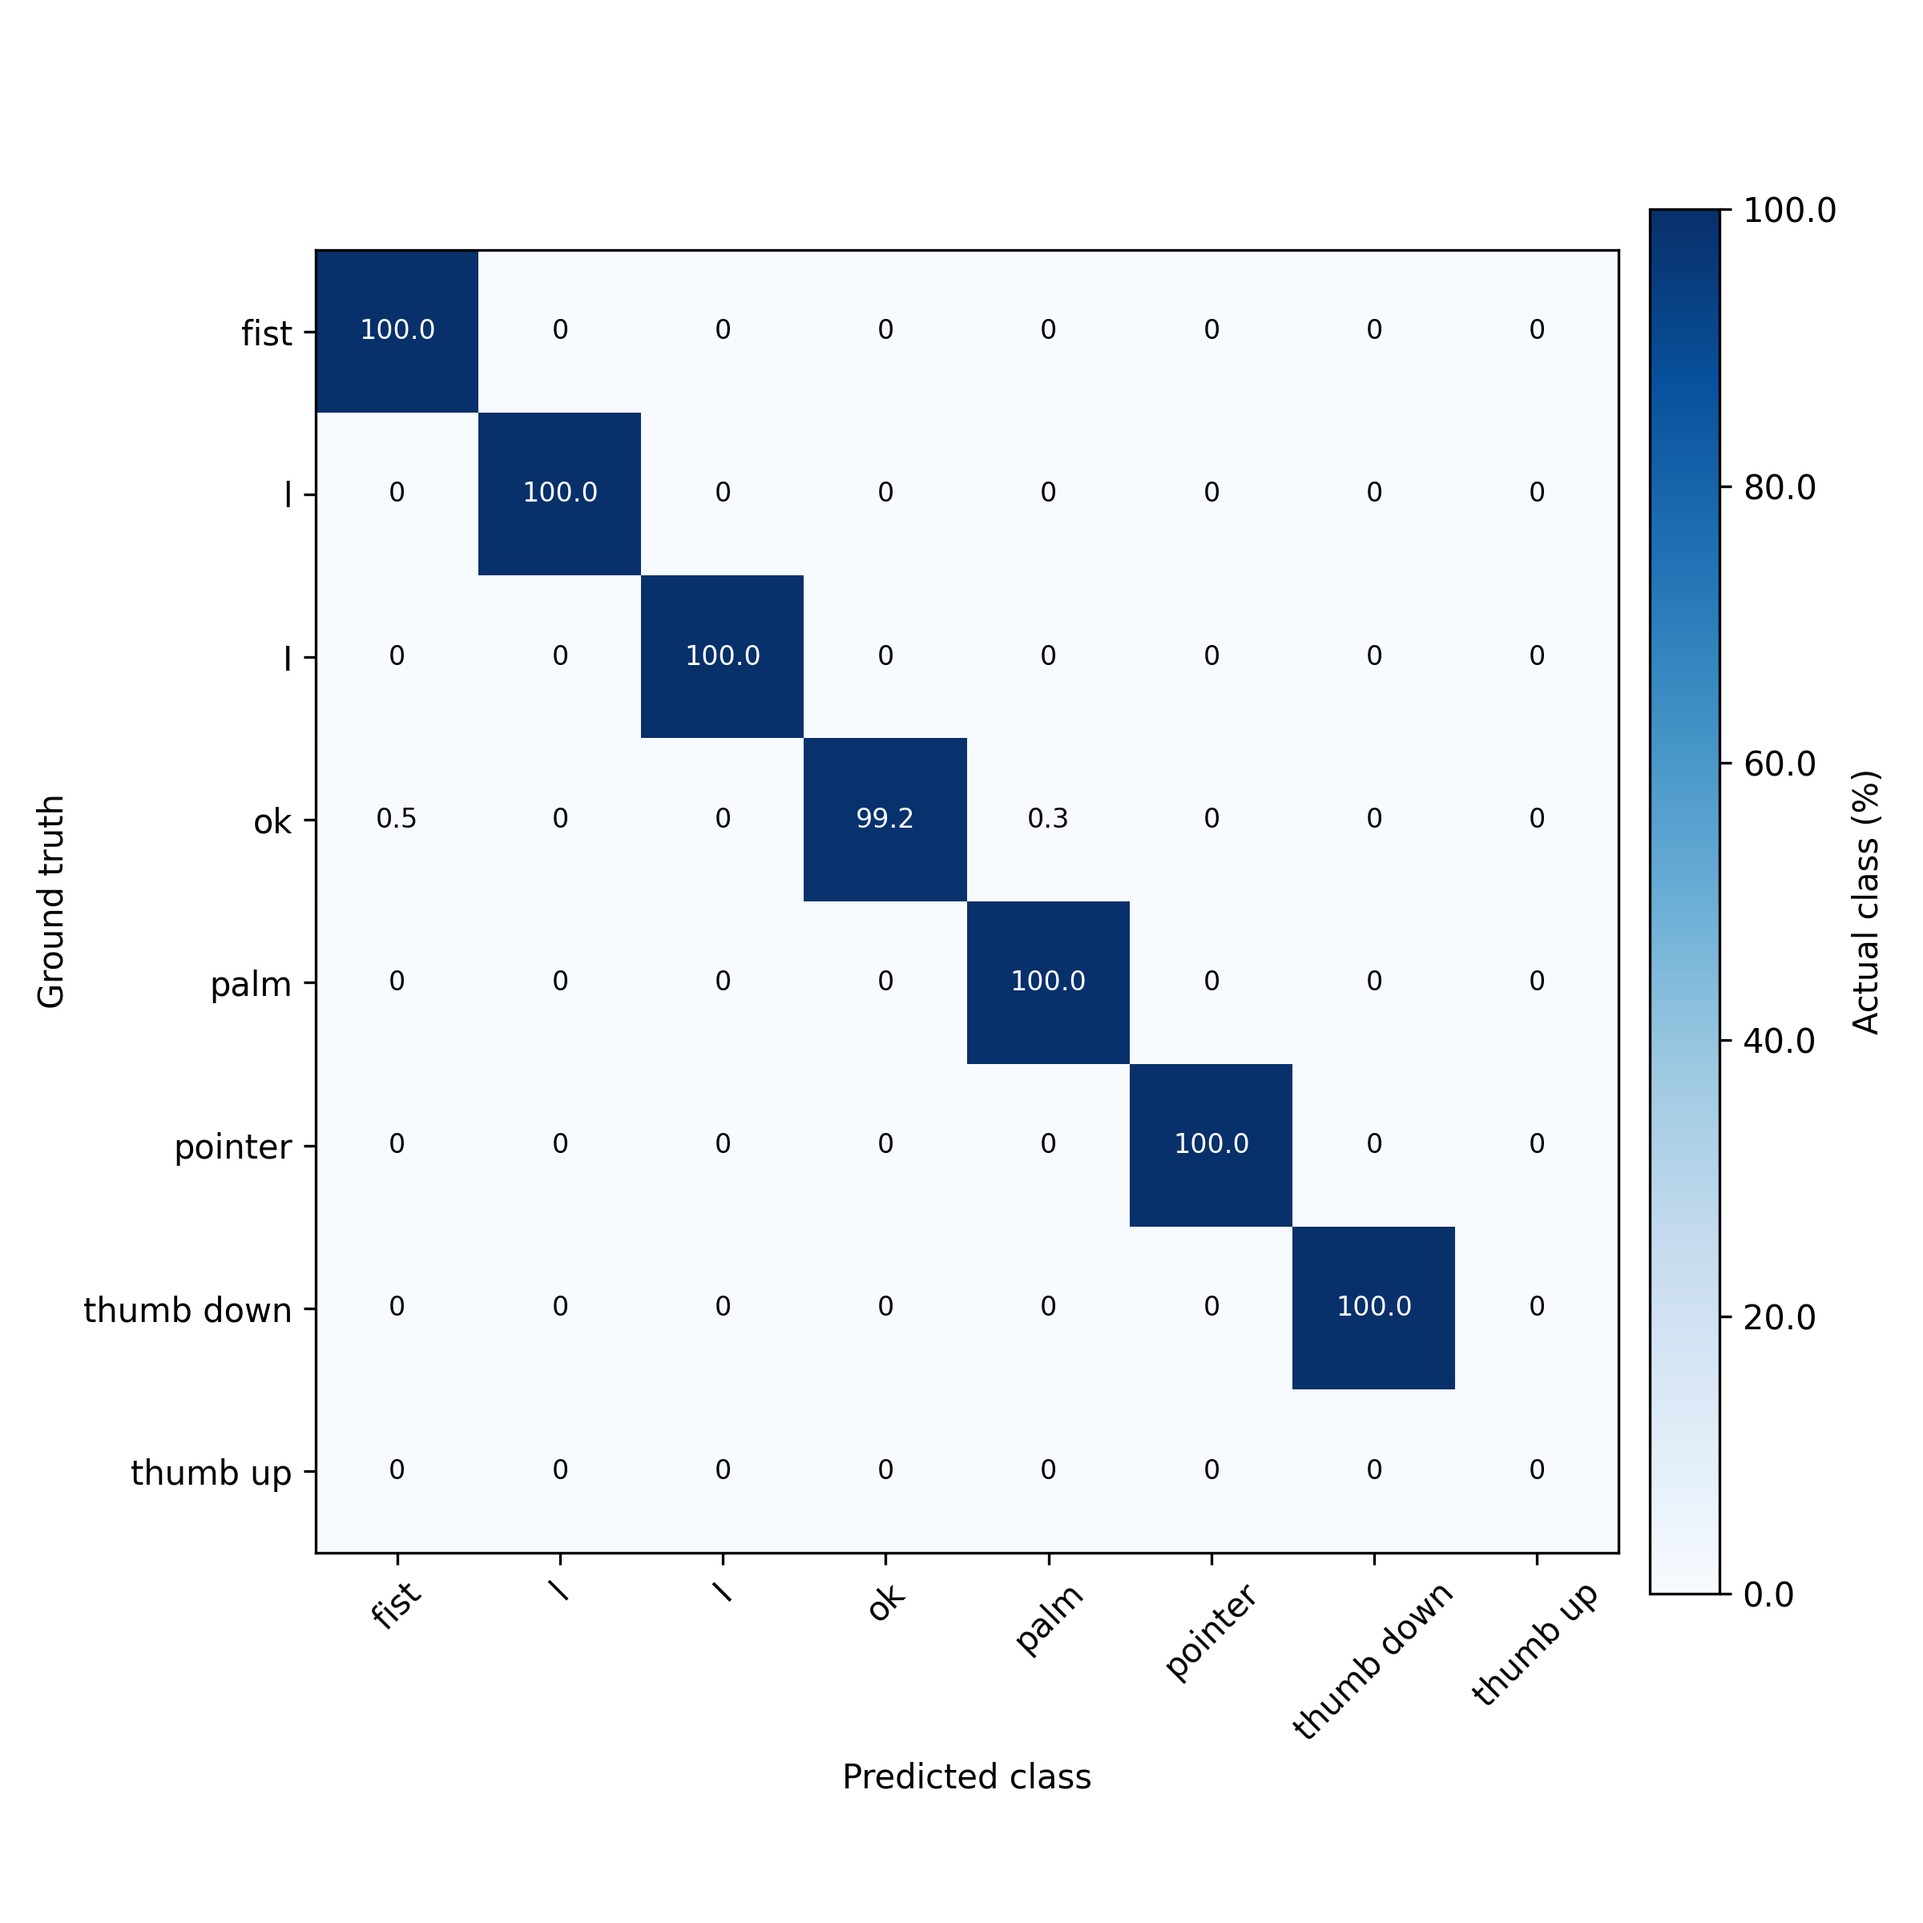
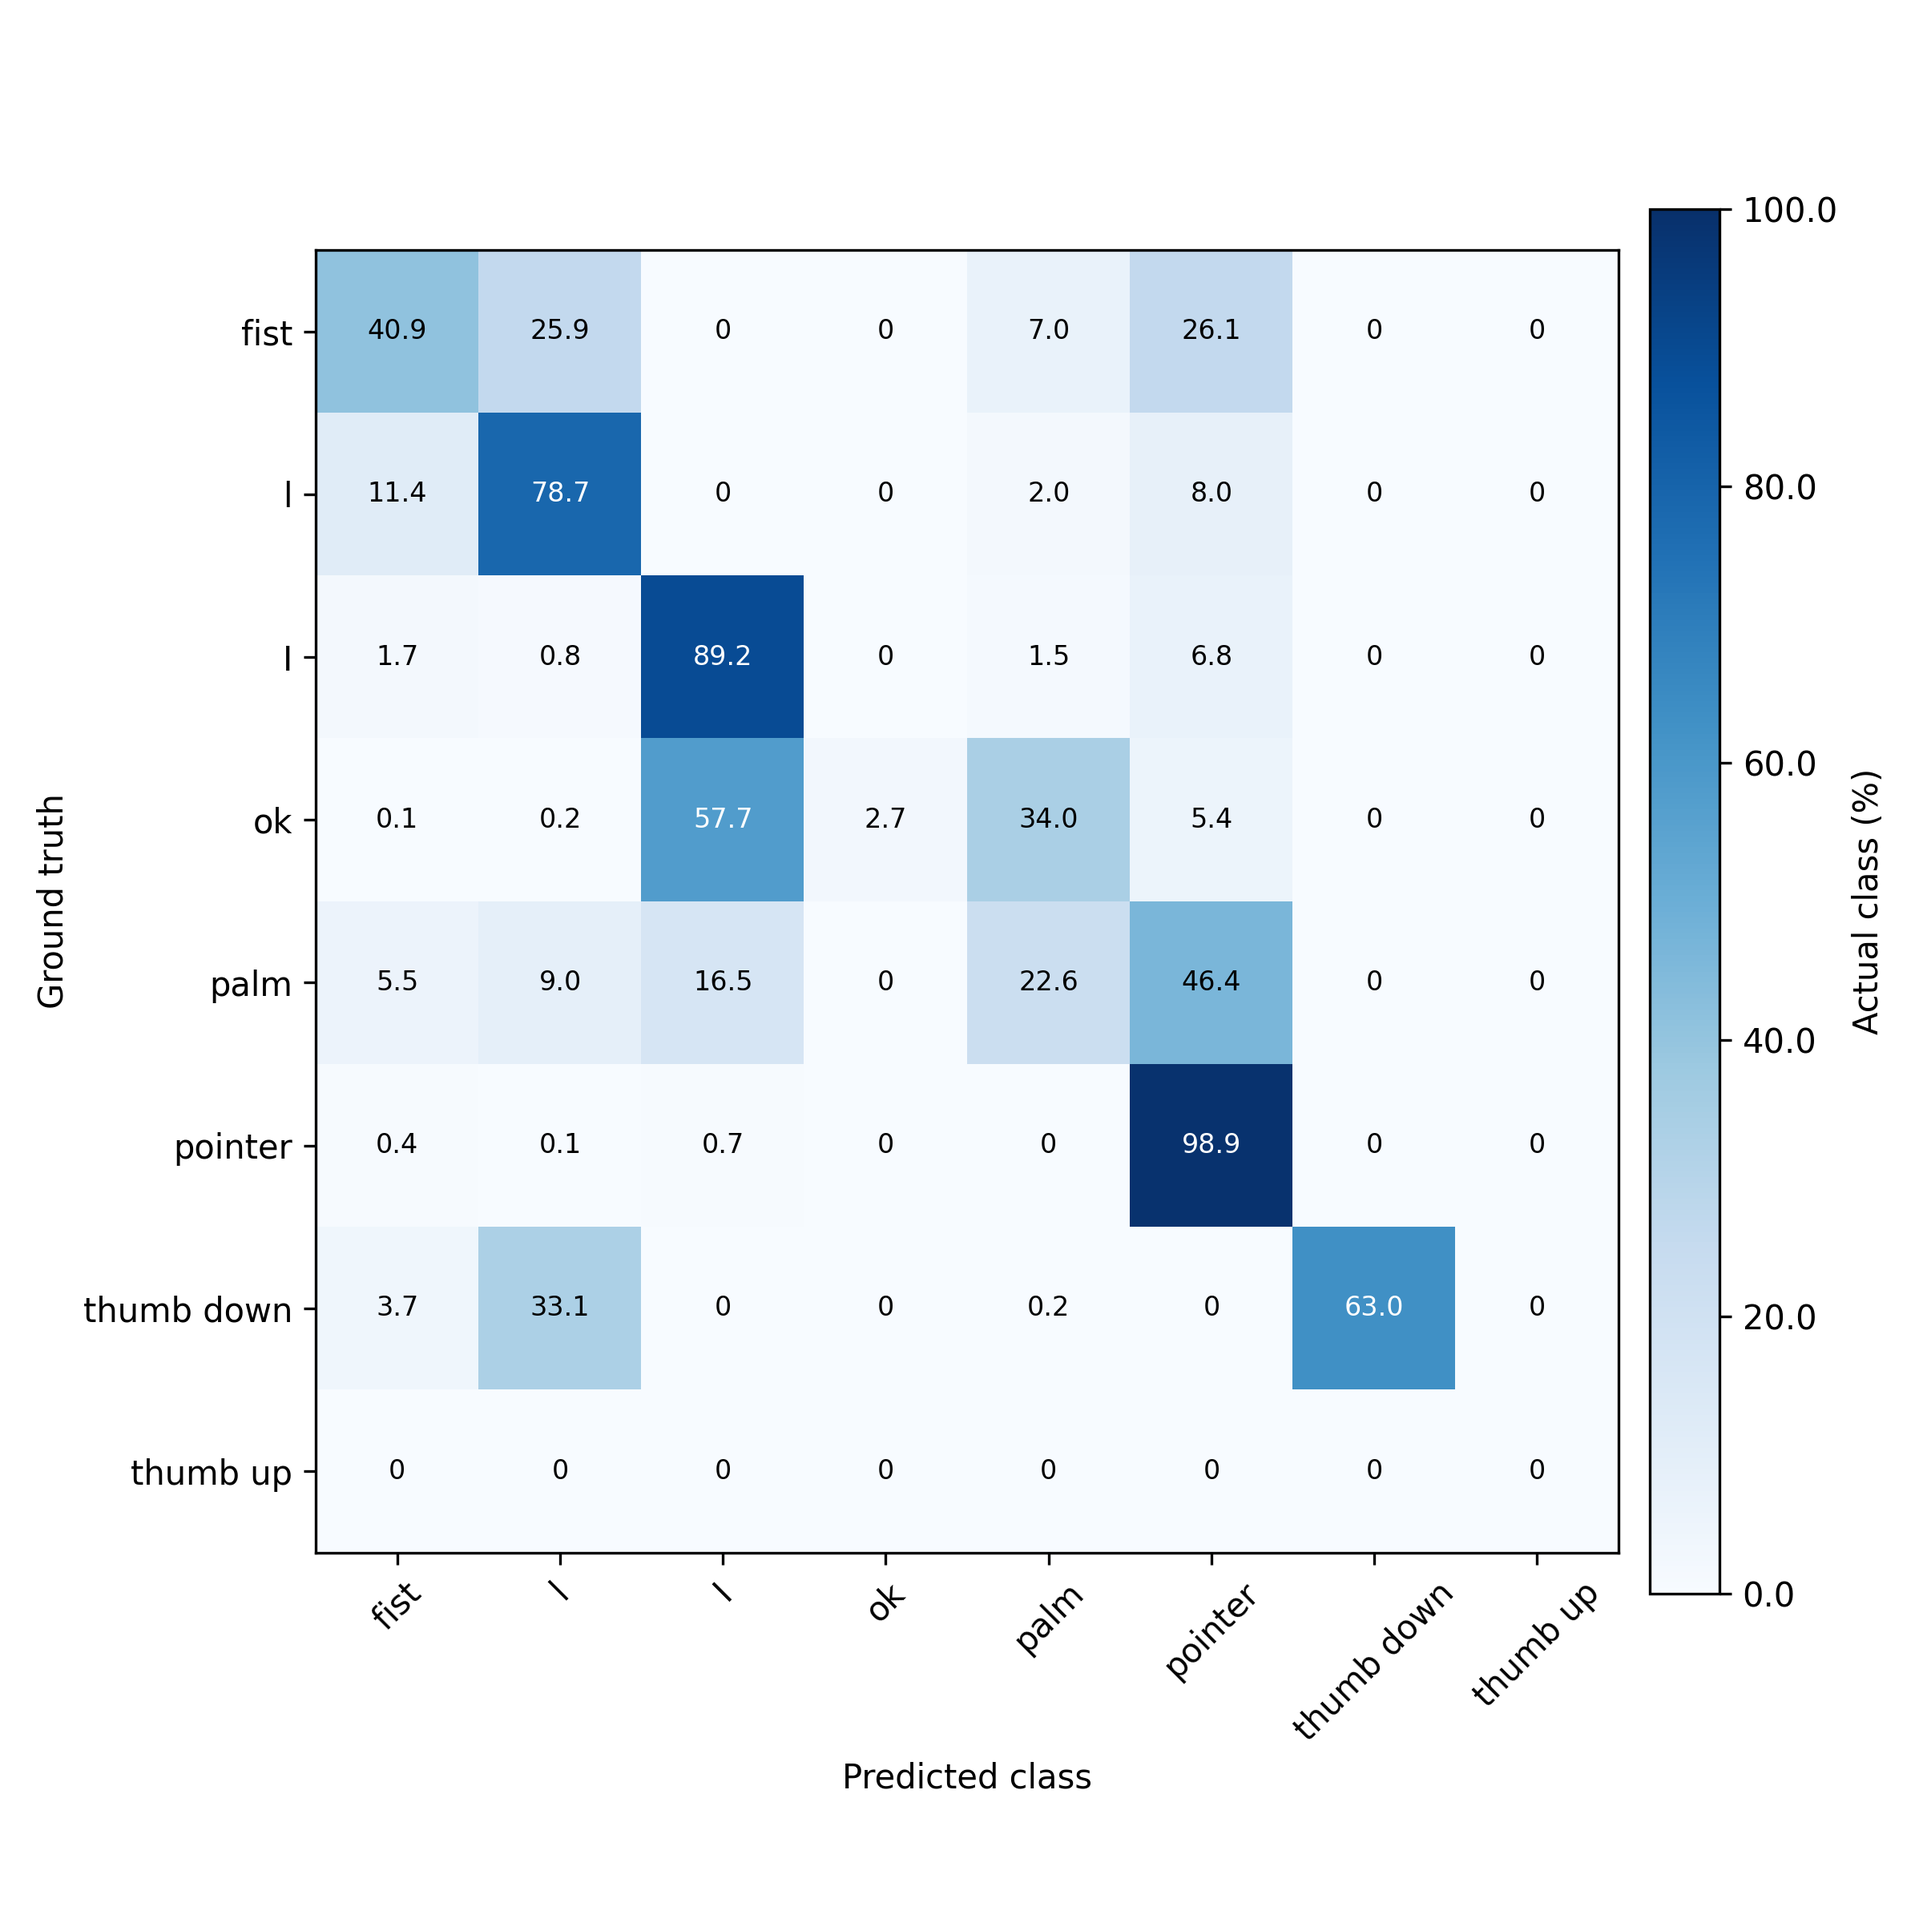
added confusion matrix computation

diff --git a/get_cm.py b/get_cm.py
@@ -1,0 +1,271 @@
+"""Trains a configuration like `train.py`, but only on `limit_subjects` subjects,
+and only produces a confusion matrix (no wandb logging, no checkpointing).
+"""
+import argparse
+import os
+from os.path import join
+from pprint import pprint
+
+import matplotlib.pyplot as plt
+import matplotlib.ticker as mtick
+import numpy as np
+import torch
+import torchmetrics
+import yaml
+from lightning.pytorch import Trainer
+from torch.utils.data import DataLoader, Subset
+
+from datasets.ml2hp import MotionLeap2Dataset
+from datasets.mmhgdhgr import MultiModalHandGestureDatasetForHandGestureRecognition
+from datasets.tiny_hgr import TinyHandGestureRecognitionDataset
+from model import HandGestureRecognitionModel
+from utils import (
+    get_device_from_string,
+    get_loso_runs,
+    get_optimistic_splits,
+    get_train_test_splits,
+    set_global_seed,
+)
+
+
+def main(cfg: str, limit_subjects: int = None, max_epochs: int = 3, seed: int = 42):
+    num_workers = os.cpu_count()
+    torch.set_float32_matmul_precision("medium")
+    set_global_seed(seed=seed)
+
+    with open(cfg, "r") as fp:
+        cfg_dict = yaml.safe_load(fp)
+    pprint(cfg_dict)
+
+    # sets up the dataset
+    if cfg_dict["dataset"] == "ml2hp":
+        dataset = MotionLeap2Dataset(
+            dataset_path=cfg_dict["dataset_path"],
+            normalize_landmarks=cfg_dict["normalize_landmarks"],
+        )
+        dataset.set_mode(
+            return_horizontal_images=cfg_dict["use_horizontal_image"],
+            return_vertical_images=cfg_dict["use_vertical_image"],
+            return_horizontal_landmarks=cfg_dict["use_horizontal_landmarks"],
+            return_vertical_landmarks=cfg_dict["use_vertical_landmarks"],
+        )
+    elif cfg_dict["dataset"] == "mmhgdhgr":
+        dataset = MultiModalHandGestureDatasetForHandGestureRecognition(
+            dataset_path=cfg_dict["dataset_path"],
+            normalize_landmarks=cfg_dict["normalize_landmarks"],
+            img_size=224,
+        )
+        dataset.set_mode(
+            return_images=any(
+                [cfg_dict["use_horizontal_image"], cfg_dict["use_vertical_image"]]
+            ),
+            return_landmarks=any(
+                [
+                    cfg_dict["use_horizontal_landmarks"],
+                    cfg_dict["use_vertical_landmarks"],
+                ]
+            ),
+        )
+    elif cfg_dict["dataset"] == "tiny_hgr":
+        dataset = TinyHandGestureRecognitionDataset(
+            dataset_path=cfg_dict["dataset_path"],
+            normalize_landmarks=cfg_dict["normalize_landmarks"],
+            img_size=224,
+        )
+        dataset.set_mode(
+            return_images=any(
+                [cfg_dict["use_horizontal_image"], cfg_dict["use_vertical_image"]]
+            ),
+            return_landmarks=any(
+                [
+                    cfg_dict["use_horizontal_landmarks"],
+                    cfg_dict["use_vertical_landmarks"],
+                ]
+            ),
+        )
+    else:
+        raise NotImplementedError()
+
+    # sets up the validation scheme, limited to `limit_subjects` subjects/runs
+    if cfg_dict["dataset"] == "ml2hp" or cfg_dict["validation"] == "loso":
+        runs = get_loso_runs(dataset=dataset, limit_subjects=limit_subjects)
+    elif cfg_dict["dataset"] in {"mmhgdhgr"}:
+        runs = get_train_test_splits(dataset=dataset, limit_subjects=limit_subjects)
+    elif cfg_dict["dataset"] in {"tiny_hgr"}:
+        runs = get_optimistic_splits(dataset=dataset)
+    else:
+        raise NotImplementedError()
+
+    print(f"{len(runs)} run(s)")
+
+    # sets up the model
+    device = get_device_from_string(cfg_dict["device"])
+    model = HandGestureRecognitionModel(
+        num_labels=dataset.num_labels,
+        num_landmarks=dataset.num_landmarks,
+        img_channels=dataset.img_channels,
+        img_size=dataset.img_size,
+        image_backbone_name=cfg_dict["image_backbone_name"],
+        landmarks_backbone_name=cfg_dict["landmarks_backbone_name"],
+        use_horizontal_images=cfg_dict["use_horizontal_image"],
+        use_vertical_images=cfg_dict["use_vertical_image"],
+        use_horizontal_landmarks=cfg_dict["use_horizontal_landmarks"],
+        use_vertical_landmarks=cfg_dict["use_vertical_landmarks"],
+        num_epochs=max_epochs,
+        lr=cfg_dict["lr"],
+    )
+
+    initial_state_dict_path = "./initial_weights.pth"
+    torch.save(model.state_dict(), initial_state_dict_path)
+
+    # trains and predicts on every run, accumulating preds/labels across all of them
+    all_preds, all_labels = [], []
+    for i_run, run in enumerate(runs):
+        run_name = (
+            run["subject_id"] if cfg_dict["validation"] == "loso" else f"run_{i_run}"
+        )
+        print(f"doing run {run_name} ({(i_run + 1) / len(runs) * 100:.1f}%)")
+
+        dataloader_train = DataLoader(
+            dataset=Subset(dataset, indices=run["train_idx"]),
+            batch_size=cfg_dict["batch_size"],
+            shuffle=True,
+            pin_memory=False,
+            num_workers=num_workers // 2,
+            persistent_workers=True,
+        )
+        dataloader_val = DataLoader(
+            dataset=Subset(dataset, indices=run["val_idx"]),
+            batch_size=cfg_dict["batch_size"],
+            shuffle=False,
+            pin_memory=False,
+            num_workers=num_workers,
+            persistent_workers=True,
+        )
+        if "test_idx" in run.keys():
+            dataloader_test = DataLoader(
+                dataset=Subset(dataset, indices=run["test_idx"]),
+                batch_size=cfg_dict["batch_size"],
+                shuffle=False,
+                pin_memory=False,
+                num_workers=num_workers,
+                persistent_workers=True,
+            )
+        else:
+            dataloader_test = dataloader_val
+
+        # re-initializes the model for this run
+        model.load_state_dict(
+            torch.load(initial_state_dict_path, map_location=device), strict=False
+        )
+        model.to(device)
+
+        trainer = Trainer(
+            logger=False,
+            accelerator=device,
+            log_every_n_steps=10,
+            precision="16-mixed",
+            gradient_clip_val=1.0,
+            max_epochs=max_epochs,
+            accumulate_grad_batches=cfg_dict["accumulate_grad_batches"],
+            enable_model_summary=False,
+            enable_checkpointing=False,
+        )
+        trainer.fit(model, dataloader_train, dataloader_val)
+
+        # collects predictions and labels on the test set
+        model.eval()
+        model.to(device)
+        with torch.no_grad():
+            for batch in dataloader_test:
+                if "image" in batch:
+                    if model.use_horizontal_images:
+                        batch["image_horizontal"] = batch["image"]
+                    elif model.use_vertical_images:
+                        batch["image_vertical"] = batch["image"]
+                if "landmarks" in batch:
+                    if model.use_horizontal_landmarks:
+                        batch["landmarks_horizontal"] = batch["landmarks"]
+                    elif model.use_vertical_landmarks:
+                        batch["landmarks_vertical"] = batch["landmarks"]
+                batch.pop("image", None)
+                batch.pop("landmarks", None)
+                label = batch.pop("label")
+                outs = model(**batch)
+                all_preds.append(outs["cls_logits"].argmax(dim=1).cpu())
+                all_labels.append(label.cpu())
+
+    # computes the (aggregated) confusion matrix
+    confmat = torchmetrics.functional.confusion_matrix(
+        preds=torch.cat(all_preds, dim=0),
+        target=torch.cat(all_labels, dim=0),
+        task="multiclass",
+        num_classes=dataset.num_labels,
+    )
+    np.save(f"{cfg_dict['dataset']}_cm.npy", confmat.numpy())
+    print(confmat)
+
+    # plots the confusion matrix
+    class_names = [
+        name for name, _ in sorted(dataset.poses_dict.items(), key=lambda item: item[1])
+    ]
+
+    fig, ax = plt.subplots(figsize=(8, 8), tight_layout=True)
+    confmat_norm = confmat.float() / confmat.sum(dim=1, keepdim=True).clamp(min=1)
+    im = ax.imshow(confmat_norm * 100, cmap="Blues", vmin=0, vmax=100)
+
+    t = 0  # don't show values under this threshold (%)
+
+    for i in range(confmat.shape[0]):
+        for j in range(confmat.shape[1]):
+            pct = confmat_norm[i, j].item() * 100
+            if pct < t:
+                continue
+            label = "0" if pct == 0 else f"{pct:.1f}"
+            ax.text(
+                j, i, label,
+                ha="center", va="center",
+                color="white" if pct > 50 else "black",
+                fontsize=8,
+            )
+
+    ax.set_xticks(range(len(class_names)))
+    ax.set_yticks(range(len(class_names)))
+    ax.set_xticklabels(class_names, rotation=45)
+    ax.set_yticklabels(class_names)
+    ax.set_xlabel("Predicted class")
+    ax.set_ylabel("Ground truth")
+    cbar = fig.colorbar(im, ax=ax, label="Actual class (%)", shrink=0.8, pad=0.02)
+    cbar.set_ticks([0, 20, 40, 60, 80, 100])
+    cbar.ax.yaxis.set_major_formatter(mtick.FuncFormatter(lambda x, _: f"{x:.1f}"))
+    plt.savefig(f"{cfg_dict['dataset']}_confusion_matrix.png", dpi=300)
+    plt.close(fig)
+
+
+if __name__ == "__main__":
+    parser = argparse.ArgumentParser(
+        description="Train a configuration and produce a confusion matrix"
+    )
+    parser.add_argument(
+        "--cfg", type=str, help="Path to the configuration", required=True
+    )
+    parser.add_argument(
+        "--limit_subjects",
+        type=int,
+        default=None,
+        help="The number of subjects to consider for training",
+        required=False,
+    )
+    parser.add_argument(
+        "--max_epochs",
+        type=int,
+        default=3,
+        help="The number of epochs to train for",
+        required=False,
+    )
+    parser.add_argument(
+        "--seed", type=int, default=42, help="The random seed to use", required=False
+    )
+    line_args = vars(parser.parse_args())
+
+    main(**line_args)
